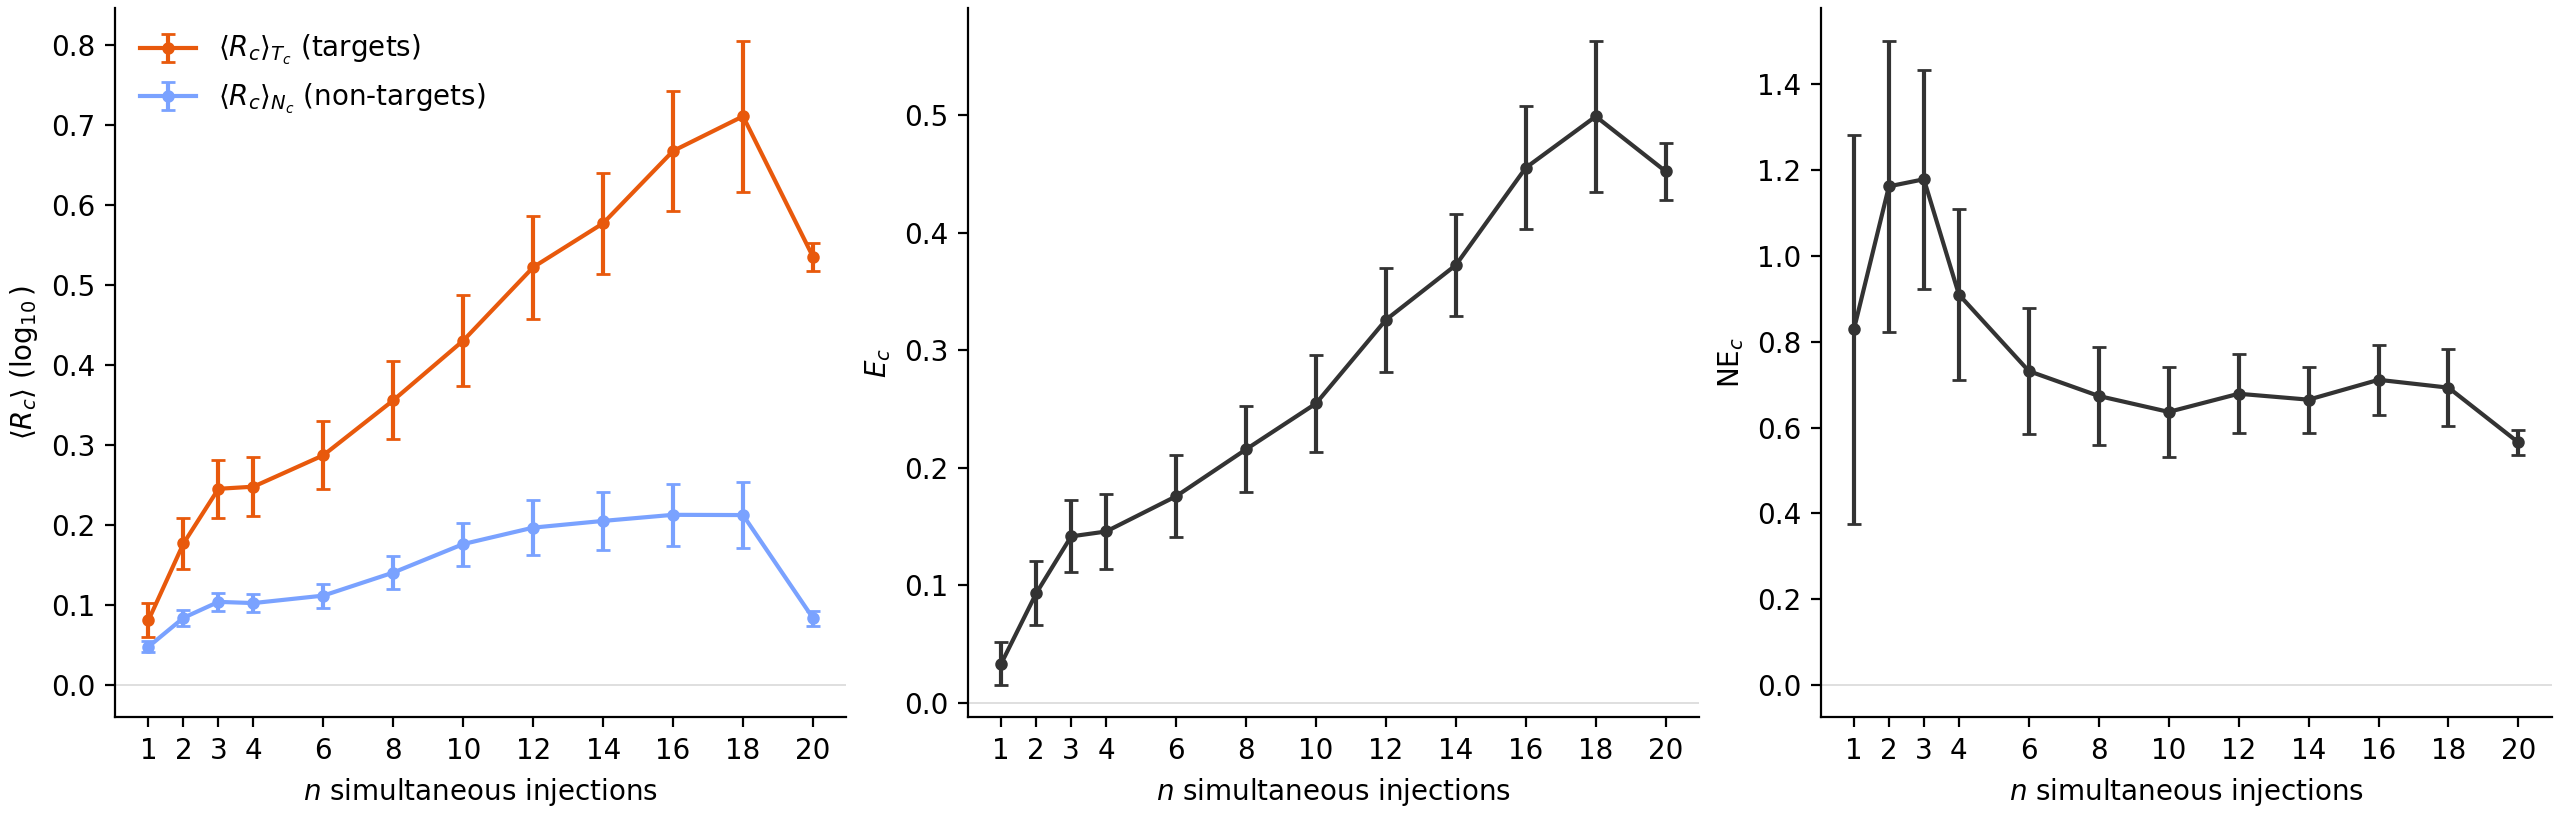
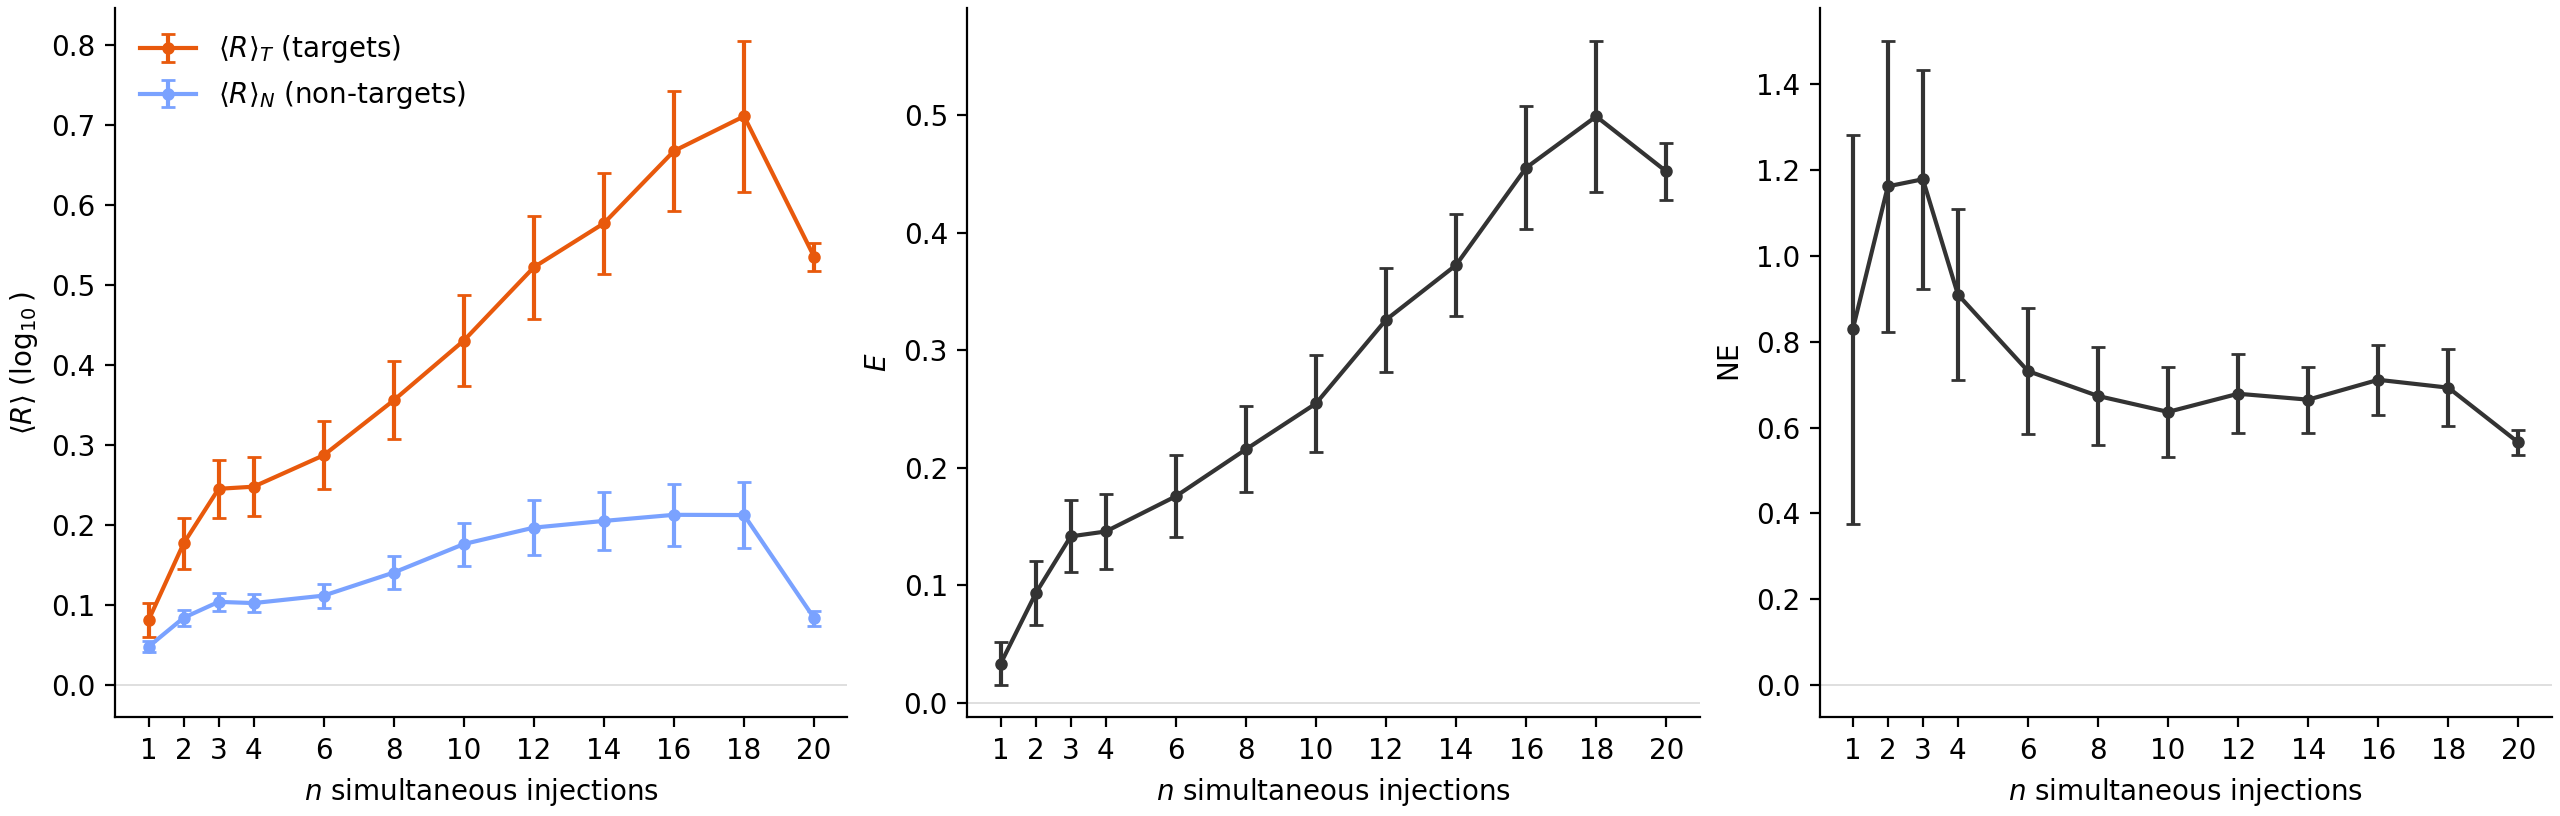
Drop the cell index _c from R/E/NE notation (text + triptych figure)
Claude-Session: https://claude.ai/code/session_01U8CiyQ7ySpBDkYEq4FzNBU

diff --git a/post.html b/post.html
@@ -96,28 +96,32 @@ $$</p>
 <figure><img src="figs/fig2a_example_intervention.png" alt="Example intervention"></figure>
 <p>Example of one intervention: a subleading injection on ``<code>H</code>`<code> (the leader </code>`<code>G</code>`<code> keeps rank 1) swings the answer slot from </code>`<code>J</code>`<code>  to </code>`<code>K</code>`<code>=</code>`<code>H+3</code>``  one step later.</p>
 <h3>Parallelism</h3>
-<p>This simple response behavior begs the question whether it is possible to perturb $n>1$ source letters _simultaneously_ (again, keeping them subleading) and see whether the corresponding target images respond. To this end, we measure responses $\langle R_c\rangle_{T_c}$ and $\langle R_c\rangle_{N_c}$ averaged over the target and non-target sets, respectively, and introduce the _effect_ $E_c = \langle R_c\rangle_{T_c} - \langle R_c\rangle_{N_c}$. Because we now inject mass at multiple positions and observe proportionally scaled response, we calculate a _normalized effect_ $NE$.</p>
+<p>This simple response behavior begs the question whether it is possible to perturb $n>1$ source letters _simultaneously_ (again, keeping them subleading) and see whether the corresponding target images respond. To this end, we measure responses $\langle R\rangle_{T}$ and $\langle R\rangle_{N}$ averaged over the target and non-target sets, respectively, and introduce the _effect_ $E = \langle R\rangle_{T} - \langle R\rangle_{N}$. Because we now inject mass at multiple positions and observe proportionally scaled response, we calculate a _normalized effect_ $NE$.</p>
 <figure><img src="figs/fig2b_triptych.png" alt="Parallelism triptych"></figure>
 <p>_DiffusionGemma does simultaneous letter arithmetic to about a capacity of $n=4$._</p>
 <p>This behavior is plausible considering the computation in question: a shift is easily implemented by a linear rotation in representation space. Therefore, superpositions of letters will be transported to superpositions of responses. Overall, this leaves an interpretable picture.</p>
 <h2>Conclusion</h2>
 <p>In this post, we have studied whether DiffusionGemma has latent reasoning, and found a capability to do  (parallel) computation on the vector-valued state passed between diffusion steps.</p>
-<ul><li>still, there may be functional degradation from truncation</li><li>the fact that top-k truncation largely preserves accuracy suggests that no _significant_ latent reasoning is present, but does not rule it out</li><li>moreover,</li></ul>
+<p>The fact that top-k truncation largely preserves accuracy suggests that no _significant_ latent reasoning is used in typical reasoning-focussed task.</p>
+<p>More broadly, DiffusionGemma is only one testbed for latent reasoning. Going forward, there are many more architectures and forms where it can occur. </p>
 <h2>Appendix</h2>
-<p>The findings in Engels et al. and in this post have focussed on DiffusionGemma's behavior. We here study whether the model's representation supports the behavioral finding of high monitorability. </p>
-<h3>A1: Representation similarity (cosine &amp; CKA)</h3>
-<p>We first ask about how the representation changes between Gemma and DiffusionGemma. A simple way is to just measure overlap between pairs of inputs, where each element of the pair is fed through Gemma or DiffusionGemma, respectively. We here compare a simple cosine similarity, and centered kernel analysis (CKA). </p>
+<p>The findings in Engels et al. and in this post have focussed on DiffusionGemma's behavior. We here study whether the model's representation supports the behavioral finding of high monitorability.</p>
+<h3>Representation similarity (cosine &amp; CKA)</h3>
+<p>We first ask about how the representation changes between Gemma and DiffusionGemma. A simple way is to just measure overlap between pairs of inputs, where each element of the pair is fed through Gemma or DiffusionGemma, respectively. We here compare a simple cosine similarity, and centered kernel analysis (CKA).</p>
 <figure><img src="figs/figA1_rsa_cosine_cka.png" alt="RSA cosine and CKA"></figure>
 <p><em>Representational similarity falls with layers, and is significantly driven by bare model difference and bidirectional attention.</em></p>
-<h3>A2: Probe retention</h3>
+<p>A priori, this rather large drop suggests a significant change in how the representation is organized, which we then went on to test more specifically.</p>
+<h3>Probe retention</h3>
+<p>Probing allows to study how well a model separates concepts. We use the data from XXX and train on XXX, optimizing the layer via heldout AUC. We then test this probe on DG.</p>
 <figure><img src="figs/figA2_probe_retention.png" alt="Probe retention"></figure>
 <p><em>Top: mean held-out AUC (56 concepts, source-CV layer) — cross-model reading costs ~0.03 in both directions. Bottom: a held-out pair read by the same gemma-trained probe on both models' activations.</em></p>
-<h3>A3: Steering retention</h3>
+<p>#### DiffusionGemmas representation is more separable</p>
+<h3>Steering retention</h3>
 <figure><img src="figs/figA3_steer_retention.png" alt="Steering retention"></figure>
 <p><em>Top: blind-pair judge accuracy (judge must identify +steer vs −steer), 11 RepE tasks — every cell steers (0.70–0.85); bidirectional-mode directions are the weakest sources. Bottom: the same gemma-fit happiness direction applied to gemma-4 and DiffusionGemma side by side (±steer on one carrier); judge digests in italics.</em></p>
-<h3>A4: J-Lens retention</h3>
+<h3>J-Lens retention</h3>
 <figure><img src="figs/figA4_jlens_retention.png" alt="J-Lens retention"></figure>
-<p><em>Top: mean GT-appearance score $A=1-e^{-n}$ ($n$ = matching top-20 lens tokens; 551 items) — fitted Jacobian lenses transfer across the AR/diffusion boundary (gemma→DG retention ≈0.76). Bottom: top-5 lens tokens per audited layer for one poetry item, read on gemma-4 vs DG residuals with the same DG-fit Jacobian — both streams surface the ground-truth intermediate ('death') at L20.</em></p>
+<p>J-lens</p>
 <h3>A5: Autonomous computational usage of $\mathbf{S}^t$</h3>
 <p>In the _letter arithmetic_ task introduced in the main text, DiffusionGemma did respond to modifications of the distributional state in the way we expected. While suggestive, it is unclear if the model also _autonomously_ would make use of its state.</p>
 <p>To investigate this, we searched for a non-trivial (i.e., not just a binary choice) task where DG will use a hypothesis subleading in its distribution autonomously. An instance we found is a word-level _palindrome_ task. When asked ``<code>Please write a word-level palindrome</code>`<code>, DG maintains two competing completions of the same canvas: a literal _seasonal_ phrase (</code>`<code>fall leaves as soon as leaves fall</code>`<code>) and the famous _idiom_ (</code>`<code>all for one and one for all</code>``).</p>
@@ -125,6 +129,4 @@ $$</p>
 <p>We validated that the emergence of _idiom_ is indeed causal: when ablating _idiom_'s tokens, the transition can be prevented. Note however that early and late ablation do not have this effect.</p>
 <figure><img src="figs/figA5_seasonal_ember_kill.png" alt="Seasonal vs idiom: ember kill"></figure>
 <p><em>Left: sheet mass of the two completions at the contested slots (black: idiom, purple: seasonal; seed s3) — the base run (top, separated), then single-step ablations of the idiom's $\mathbf{S}$-mass (red ×): an early kill regrows, a mid-ramp kill destroys the escape, a late kill is a no-op. Right: final outcome across all arms × ablation steps — single-step kills, persistent kills (grey = collapse into a third, degenerate basin), and incumbent-kills on the trapped seed s0, where silencing the seasonal incumbent for a single step rescues the idiom at any time. Cell text = draft-flip step (— = never); outlined cells = the panels at left.</em></p>
-<h2>References</h2>
-<ul><li>Engels et al., 2026. <em>[Monitorability of diffusion language models]</em> — the DiffusionGemma monitorability and top-k truncation study. <a href="https://arxiv.org/abs/2606.20560">arXiv:2606.20560</a></li><li>Grootendorst, 2026. <em>A Visual Guide to DiffusionGemma.</em> <a href="https://newsletter.maartengrootendorst.com/p/a-visual-guide-to-diffusiongemma">newsletter.maartengrootendorst.com</a></li><li>Chen, Zhang &amp; Hinton, 2022. <em>Analog Bits: Generating Discrete Data using Diffusion Models with Self-Conditioning.</em> (the self-conditioning mechanism behind $\mathbf{S}_t$) <a href="https://arxiv.org/abs/2208.04202">arXiv:2208.04202</a></li><li>Nie et al., 2025. <em>Large Language Diffusion Models</em> (LLaDA — masked diffusion LMs). <a href="https://arxiv.org/abs/2502.09992">arXiv:2502.09992</a></li><li>Giannou et al., 2023. <em>Looped Transformers as Programmable Computers.</em> <a href="https://arxiv.org/abs/2301.13196">arXiv:2301.13196</a></li><li>Zou et al., 2023. <em>Representation Engineering</em> (RepE — steering tasks and diff-of-means directions used in A3). <a href="https://arxiv.org/abs/2310.01405">arXiv:2310.01405</a></li><li>Kantamneni et al., 2025. <em>Are Sparse Autoencoders Useful? A Case Study in Sparse Probing</em> (the 113 real-text concept datasets used in A1–A2). <a href="https://arxiv.org/abs/2502.16681">arXiv:2502.16681</a></li><li>Kornblith et al., 2019. <em>Similarity of Neural Network Representations Revisited</em> (CKA, used in A1). <a href="https://arxiv.org/abs/1905.00414">arXiv:1905.00414</a></li><li>[J-Lens paper — fill in citation for the fitted Jacobian lens and its six eval sets]</li></ul>
 </div></body></html>

diff --git a/scripts/fig2b_triptych.py b/scripts/fig2b_triptych.py
@@ -48,11 +48,11 @@ fig, axes = plt.subplots(1, 3, layout="constrained",
                          figsize=(plt.rcParams["figure.figsize"][0] * 2.0,
                                   plt.rcParams["figure.figsize"][1] * 0.85))
 panels = [
-    (axes[0], [("rt", "#e8590c", r"$\langle R_c\rangle_{T_c}$ (targets)"),
-               ("rn", "#7aa2ff", r"$\langle R_c\rangle_{N_c}$ (non-targets)")],
-     r"components", r"$\langle R_c\rangle\ (\log_{10})$"),
-    (axes[1], [("E", "0.2", None)], r"$E_c=\langle R_c\rangle_{T_c}-\langle R_c\rangle_{N_c}$", r"$E_c$"),
-    (axes[2], [("NE", "0.2", None)], r"$\mathrm{NE}_c = E_c/(n\,\varepsilon_0)$", r"$\mathrm{NE}_c$"),
+    (axes[0], [("rt", "#e8590c", r"$\langle R\rangle_{T}$ (targets)"),
+               ("rn", "#7aa2ff", r"$\langle R\rangle_{N}$ (non-targets)")],
+     r"components", r"$\langle R\rangle\ (\log_{10})$"),
+    (axes[1], [("E", "0.2", None)], r"$E=\langle R\rangle_{T}-\langle R\rangle_{N}$", r"$E$"),
+    (axes[2], [("NE", "0.2", None)], r"$\mathrm{NE} = E/(n\,\varepsilon_0)$", r"$\mathrm{NE}$"),
 ]
 for ax, series, title, ylab in panels:
     for key, col, lab in series:

diff --git a/post.md b/post.md
@@ -68,7 +68,7 @@ Example of one intervention: a subleading injection on ```H``` (the leader ```G`
 
 ### Parallelism
 
-This simple response behavior begs the question whether it is possible to perturb $n>1$ source letters _simultaneously_ (again, keeping them subleading) and see whether the corresponding target images respond. To this end, we measure responses $\langle R_c\rangle_{T_c}$ and $\langle R_c\rangle_{N_c}$ averaged over the target and non-target sets, respectively, and introduce the _effect_ $E_c = \langle R_c\rangle_{T_c} - \langle R_c\rangle_{N_c}$. Because we now inject mass at multiple positions and observe proportionally scaled response, we calculate a _normalized effect_ $NE$.
+This simple response behavior begs the question whether it is possible to perturb $n>1$ source letters _simultaneously_ (again, keeping them subleading) and see whether the corresponding target images respond. To this end, we measure responses $\langle R\rangle_{T}$ and $\langle R\rangle_{N}$ averaged over the target and non-target sets, respectively, and introduce the _effect_ $E = \langle R\rangle_{T} - \langle R\rangle_{N}$. Because we now inject mass at multiple positions and observe proportionally scaled response, we calculate a _normalized effect_ $NE$.
 
 ![Parallelism triptych](figs/fig2b_triptych.png)
 
@@ -80,39 +80,45 @@ This behavior is plausible considering the computation in question: a shift is e
 
 In this post, we have studied whether DiffusionGemma has latent reasoning, and found a capability to do  (parallel) computation on the vector-valued state passed between diffusion steps.
 
-- still, there may be functional degradation from truncation
-- the fact that top-k truncation largely preserves accuracy suggests that no _significant_ latent reasoning is present, but does not rule it out
-- moreover,
+The fact that top-k truncation largely preserves accuracy suggests that no _significant_ latent reasoning is used in typical reasoning-focussed task.
+
+More broadly, DiffusionGemma is only one testbed for latent reasoning. Going forward, there are many more architectures and forms where it can occur. 
 
 ## Appendix
 
-The findings in Engels et al. and in this post have focussed on DiffusionGemma's behavior. We here study whether the model's representation supports the behavioral finding of high monitorability. 
+The findings in Engels et al. and in this post have focussed on DiffusionGemma's behavior. We here study whether the model's representation supports the behavioral finding of high monitorability.
 
-### A1: Representation similarity (cosine & CKA)
+### Representation similarity (cosine & CKA)
 
-We first ask about how the representation changes between Gemma and DiffusionGemma. A simple way is to just measure overlap between pairs of inputs, where each element of the pair is fed through Gemma or DiffusionGemma, respectively. We here compare a simple cosine similarity, and centered kernel analysis (CKA). 
+We first ask about how the representation changes between Gemma and DiffusionGemma. A simple way is to just measure overlap between pairs of inputs, where each element of the pair is fed through Gemma or DiffusionGemma, respectively. We here compare a simple cosine similarity, and centered kernel analysis (CKA).
 
 ![RSA cosine and CKA](figs/figA1_rsa_cosine_cka.png)
 
 *Representational similarity falls with layers, and is significantly driven by bare model difference and bidirectional attention.*
 
-### A2: Probe retention
+A priori, this rather large drop suggests a significant change in how the representation is organized, which we then went on to test more specifically.
+
+### Probe retention
+
+Probing allows to study how well a model separates concepts. We use the data from XXX and train on XXX, optimizing the layer via heldout AUC. We then test this probe on DG.
 
 ![Probe retention](figs/figA2_probe_retention.png)
 
 *Top: mean held-out AUC (56 concepts, source-CV layer) — cross-model reading costs ~0.03 in both directions. Bottom: a held-out pair read by the same gemma-trained probe on both models' activations.*
 
-### A3: Steering retention
+#### DiffusionGemmas representation is more separable
+
+### Steering retention
 
 ![Steering retention](figs/figA3_steer_retention.png)
 
 *Top: blind-pair judge accuracy (judge must identify +steer vs −steer), 11 RepE tasks — every cell steers (0.70–0.85); bidirectional-mode directions are the weakest sources. Bottom: the same gemma-fit happiness direction applied to gemma-4 and DiffusionGemma side by side (±steer on one carrier); judge digests in italics.*
 
-### A4: J-Lens retention
+### J-Lens retention
 
 ![J-Lens retention](figs/figA4_jlens_retention.png)
 
-*Top: mean GT-appearance score $A=1-e^{-n}$ ($n$ = matching top-20 lens tokens; 551 items) — fitted Jacobian lenses transfer across the AR/diffusion boundary (gemma→DG retention ≈0.76). Bottom: top-5 lens tokens per audited layer for one poetry item, read on gemma-4 vs DG residuals with the same DG-fit Jacobian — both streams surface the ground-truth intermediate ('death') at L20.*
+J-lens
 
 ### A5: Autonomous computational usage of $\mathbf{S}^t$
 
@@ -127,15 +133,3 @@ We validated that the emergence of _idiom_ is indeed causal: when ablating _idio
 ![Seasonal vs idiom: ember kill](figs/figA5_seasonal_ember_kill.png)
 
 *Left: sheet mass of the two completions at the contested slots (black: idiom, purple: seasonal; seed s3) — the base run (top, separated), then single-step ablations of the idiom's $\mathbf{S}$-mass (red ×): an early kill regrows, a mid-ramp kill destroys the escape, a late kill is a no-op. Right: final outcome across all arms × ablation steps — single-step kills, persistent kills (grey = collapse into a third, degenerate basin), and incumbent-kills on the trapped seed s0, where silencing the seasonal incumbent for a single step rescues the idiom at any time. Cell text = draft-flip step (— = never); outlined cells = the panels at left.*
-
-## References
-
-- Engels et al., 2026. *[Monitorability of diffusion language models]* — the DiffusionGemma monitorability and top-k truncation study. [arXiv:2606.20560](https://arxiv.org/abs/2606.20560)
-- Grootendorst, 2026. *A Visual Guide to DiffusionGemma.* [newsletter.maartengrootendorst.com](https://newsletter.maartengrootendorst.com/p/a-visual-guide-to-diffusiongemma)
-- Chen, Zhang & Hinton, 2022. *Analog Bits: Generating Discrete Data using Diffusion Models with Self-Conditioning.* (the self-conditioning mechanism behind $\mathbf{S}_t$) [arXiv:2208.04202](https://arxiv.org/abs/2208.04202)
-- Nie et al., 2025. *Large Language Diffusion Models* (LLaDA — masked diffusion LMs). [arXiv:2502.09992](https://arxiv.org/abs/2502.09992)
-- Giannou et al., 2023. *Looped Transformers as Programmable Computers.* [arXiv:2301.13196](https://arxiv.org/abs/2301.13196)
-- Zou et al., 2023. *Representation Engineering* (RepE — steering tasks and diff-of-means directions used in A3). [arXiv:2310.01405](https://arxiv.org/abs/2310.01405)
-- Kantamneni et al., 2025. *Are Sparse Autoencoders Useful? A Case Study in Sparse Probing* (the 113 real-text concept datasets used in A1–A2). [arXiv:2502.16681](https://arxiv.org/abs/2502.16681)
-- Kornblith et al., 2019. *Similarity of Neural Network Representations Revisited* (CKA, used in A1). [arXiv:1905.00414](https://arxiv.org/abs/1905.00414)
-- [J-Lens paper — fill in citation for the fitted Jacobian lens and its six eval sets]
